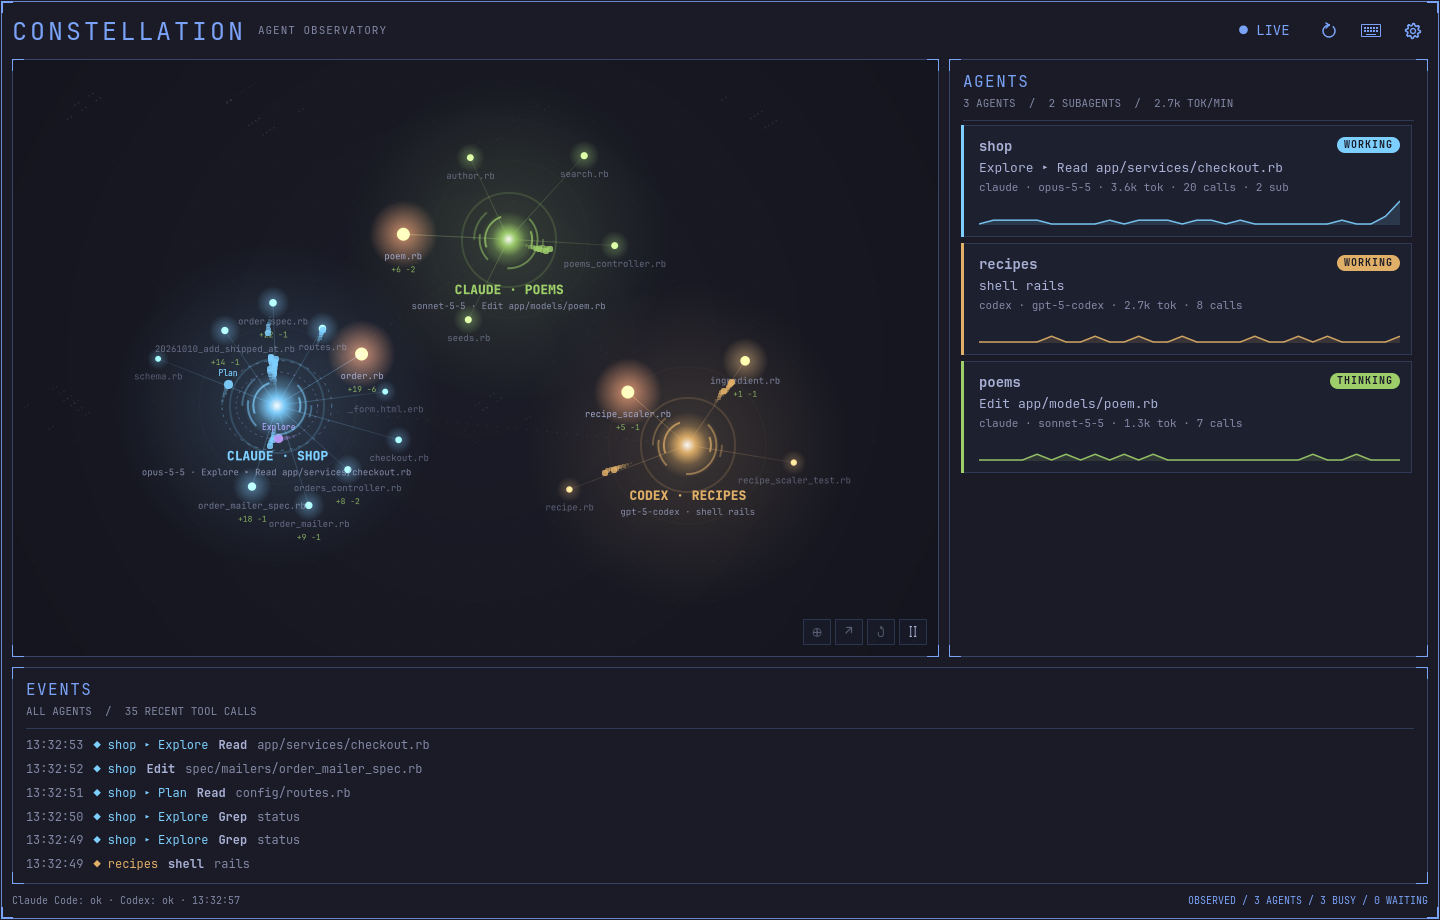
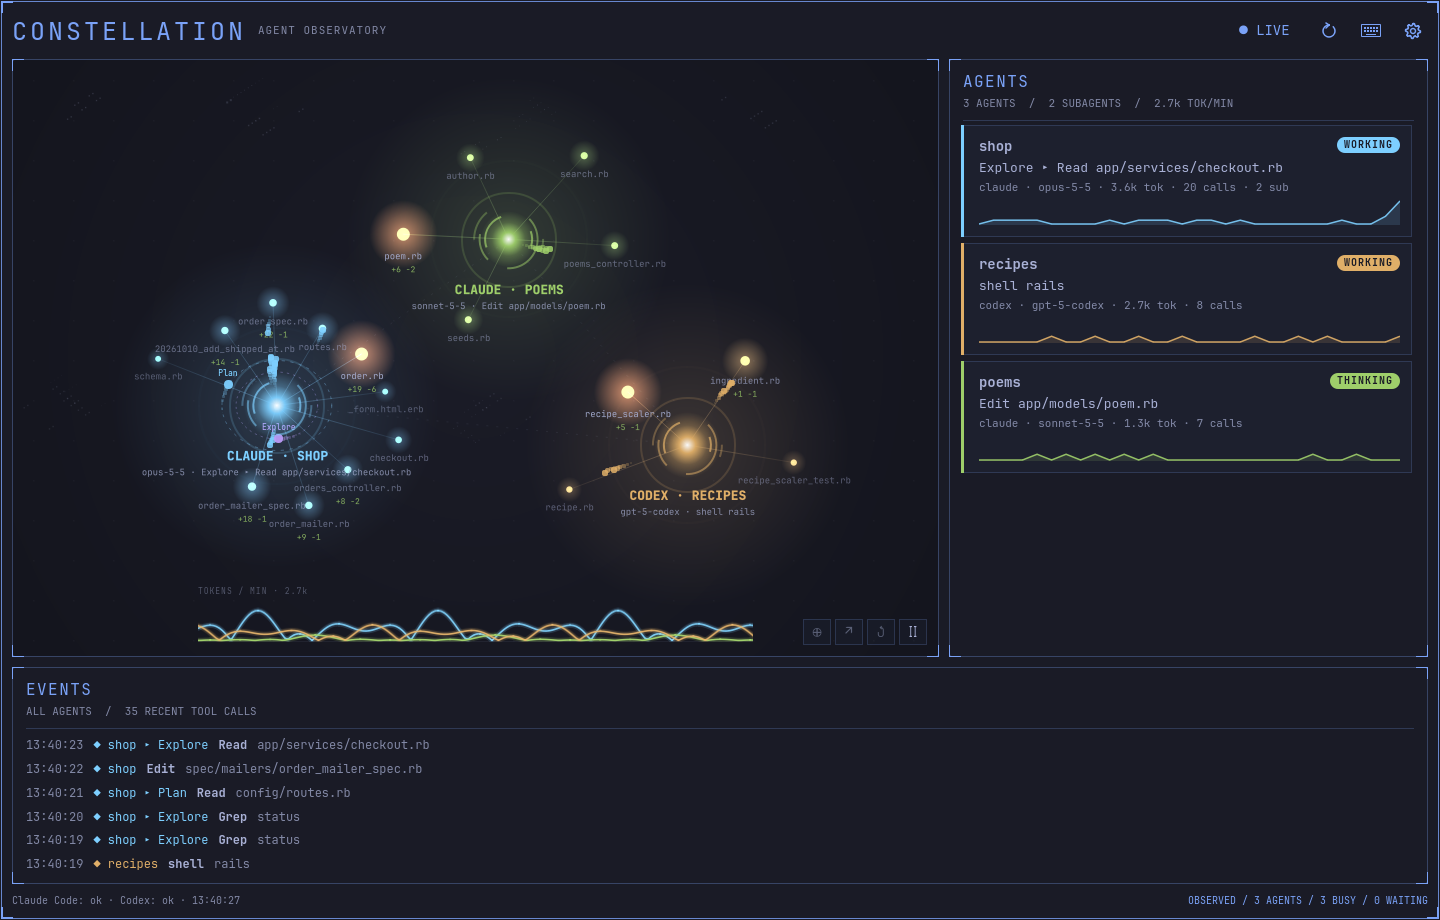
feat: bring back the token waves from the prototype
One wave per agent along the bottom of the scene follows its output tokens
per minute; each strip is drawn once per snapshot and slid by the scene clock.

Changed region(s): [[0.125, 0.6391, 0.5312, 0.7], [0.0312, 0.8826, 0.0625, 0.9435]]

diff --git a/ui/TokenWaves.qml b/ui/TokenWaves.qml
@@ -1,0 +1,73 @@
+pragma ComponentBehavior: Bound
+import QtQuick
+import "../Model.js" as Model
+
+// One glowing wave per agent whose height follows its output tokens per minute.
+// Each wave is drawn once per snapshot as a periodic strip; motion only slides
+// the strip along, so animating it costs a translation per frame.
+Item {
+    id: root
+    required property var entries
+    required property var colors
+    property real time: 0
+    property real scale: 1
+    property string fontFamily: ""
+    readonly property real period: 360
+    readonly property int peak: Math.max(1500, Math.max.apply(null, entries.map(function(e) { return e.agent.tokensPerMinute; }).concat([0])))
+    visible: entries.length > 0
+    Theme { id: theme }
+    Text {
+        id: caption
+        text: "TOKENS / MIN · " + Model.tokens(root.entries.reduce(function(sum, e) { return sum + e.agent.tokensPerMinute; }, 0))
+        textFormat: Text.PlainText
+        color: theme.text
+        opacity: 0.4
+        font.family: root.fontFamily
+        font.pixelSize: Math.round(10 * root.scale)
+        font.letterSpacing: 1
+    }
+    Item {
+        id: band
+        anchors { left: parent.left; right: parent.right; top: caption.bottom; bottom: parent.bottom; topMargin: 4 }
+        clip: true
+        Rectangle { anchors { left: parent.left; right: parent.right; bottom: parent.bottom } height: 1; color: theme.text; opacity: 0.08 }
+        Repeater {
+            model: root.entries.length
+            Canvas {
+                id: wave
+                required property int index
+                readonly property var entry: root.entries[index]
+                readonly property var agent: entry ? entry.agent : null
+                readonly property real amplitude: !agent ? 0 : agent.status === "waiting" ? 0.04 : agent.status === "idle" ? 0.06
+                    : Math.max(0.15, agent.tokensPerMinute / root.peak)
+                readonly property color ink: entry ? entry.color : "transparent"
+                readonly property real speed: 26 + index * 9
+                width: band.width + root.period
+                height: band.height
+                // Slide by whole periods' remainder so the strip loops seamlessly.
+                x: -((root.time * speed + index * 61) % root.period)
+                renderStrategy: Canvas.Cooperative
+                readonly property string paintKey: amplitude.toFixed(2) + String(ink) + width + "x" + height + root.colors.light
+                onPaintKeyChanged: requestPaint()
+                onPaint: {
+                    var c = getContext("2d");
+                    c.reset();
+                    if (!agent) return;
+                    var css = function(a) { return "rgba(" + Math.round(ink.r * 255) + "," + Math.round(ink.g * 255) + "," + Math.round(ink.b * 255) + "," + a + ")"; };
+                    var base = height - 2, amp = (height - 6) * amplitude / 1.4, phase = index * 1.7;
+                    c.globalCompositeOperation = root.colors.light ? "source-over" : "lighter";
+                    c.beginPath();
+                    for (var px = 0; px <= width; px += 3) {
+                        // Integer harmonics of the period keep the strip periodic.
+                        var u = px / root.period * Math.PI * 2;
+                        var y = base - Math.abs(Math.sin(u) * Math.sin(u * 2 + phase) + 0.4 * Math.sin(u * 5 + phase * 2)) * amp;
+                        if (px === 0) c.moveTo(px, y); else c.lineTo(px, y);
+                    }
+                    c.lineJoin = "round";
+                    c.strokeStyle = css(0.18); c.lineWidth = 5; c.stroke();
+                    c.strokeStyle = css(0.85); c.lineWidth = 1.6; c.stroke();
+                }
+            }
+        }
+    }
+}

diff --git a/ui/Constellation.qml b/ui/Constellation.qml
@@ -193,6 +193,17 @@ FocusScope {
             }
         }
     }
+    TokenWaves {
+        objectName: "tokenWaves"
+        anchors { horizontalCenter: parent.horizontalCenter; bottom: parent.bottom; bottomMargin: 14 }
+        width: Math.min(parent.width * 0.6, 820 * root.scale)
+        height: 72 * root.scale
+        entries: root.scene
+        colors: root.colors
+        time: root.time
+        scale: root.scale
+        fontFamily: root.fontFamily
+    }
     // The scene edges glow red while any agent waits for input.
     Item {
         id: waitingEdges

diff --git a/docs/architecture.md b/docs/architecture.md
@@ -18,7 +18,8 @@ collector reads local agent session files; nothing else runs outside the shell.
 - `ui/Constellation.qml` draws static geometry and labels on one canvas,
   repainted only when data, size, selection or theme change. Moving parts
   (`ui/AgentMotion.qml`, `ui/Particle.qml`: particles, subagent orbits, core
-  pulses, ripples, waiting edges) are scene-graph items whose positions derive
+  pulses, ripples, waiting edges; `ui/TokenWaves.qml`: one periodic wave strip
+  per agent, drawn once per snapshot and slid along) are scene-graph items whose positions derive
   from one scene clock ticking at 30 fps, only while the view is visible and
   animation is on. A full-window canvas repainted every frame cost about a third
   of a core inside the shell; vsync-driven animations still rendered at 60 fps.

diff --git a/README.md b/README.md
@@ -5,7 +5,8 @@ Watch your coding agents work.
 Agent Constellation is an Omarchy plugin that shows the Claude Code and Codex
 sessions running on your machine as a live constellation. Every agent is a
 glowing core. Its subagents orbit around it, each tool call flies out to the
-file it touches, and the files touched most often heat up. When an agent is
+file it touches, and the files touched most often heat up. Along the bottom,
+one wave per agent rises and falls with the tokens it writes. When an agent is
 waiting for your input, its core turns red and pulses, and the bar icon turns
 red too.
 
